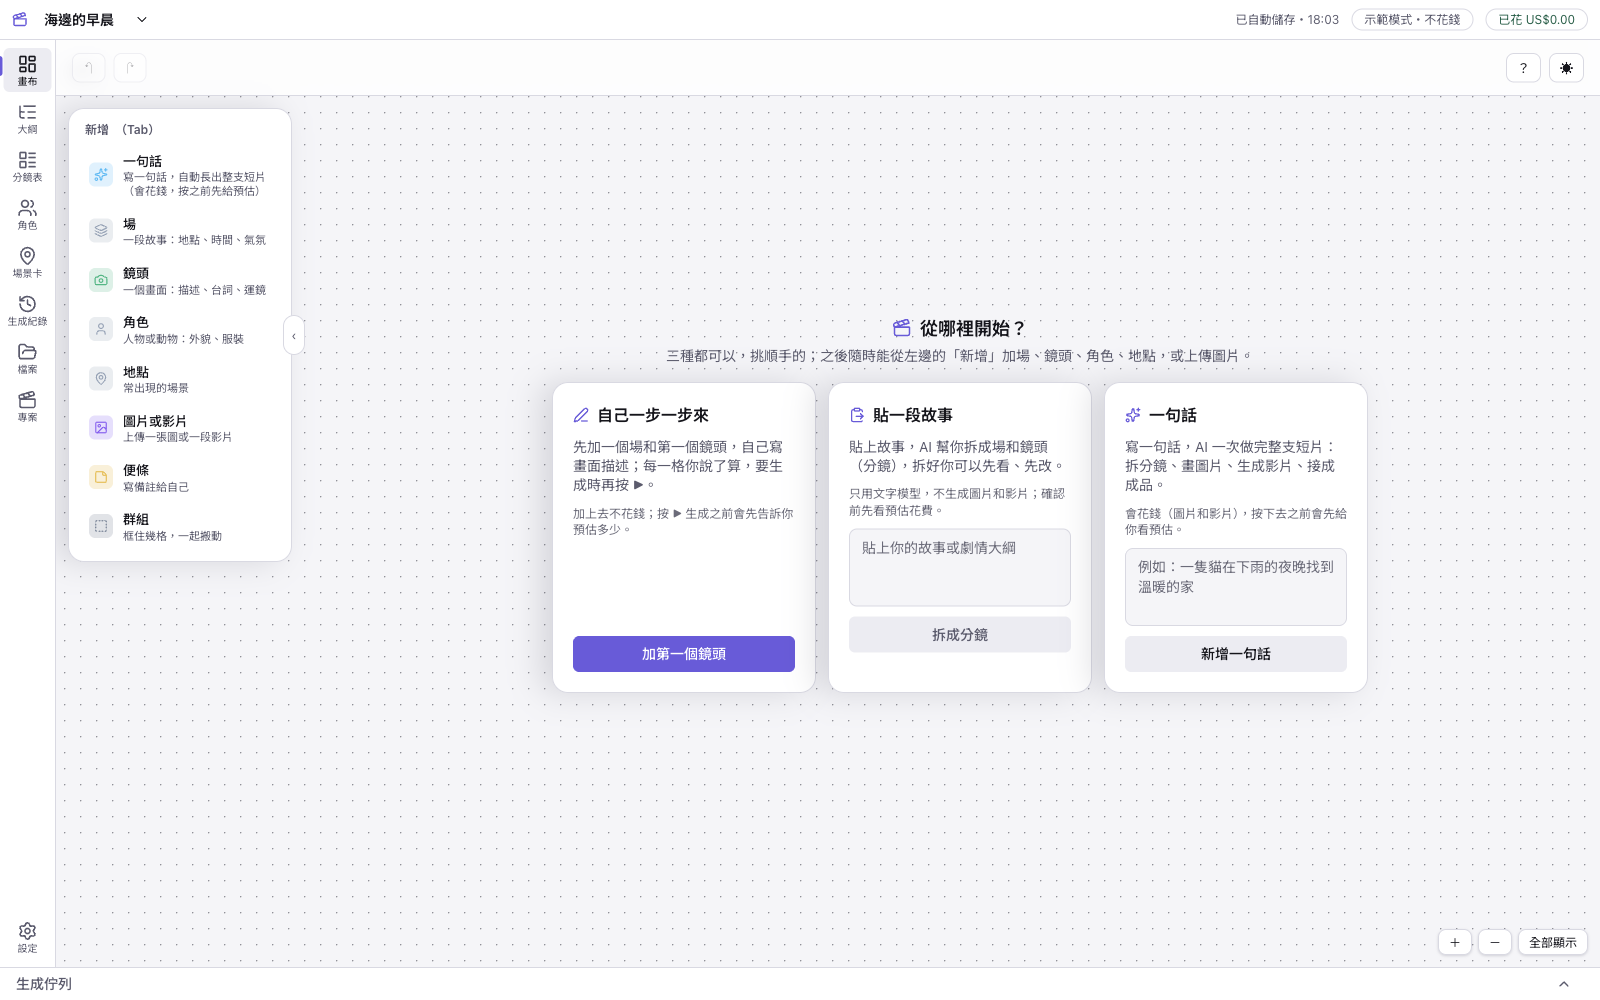
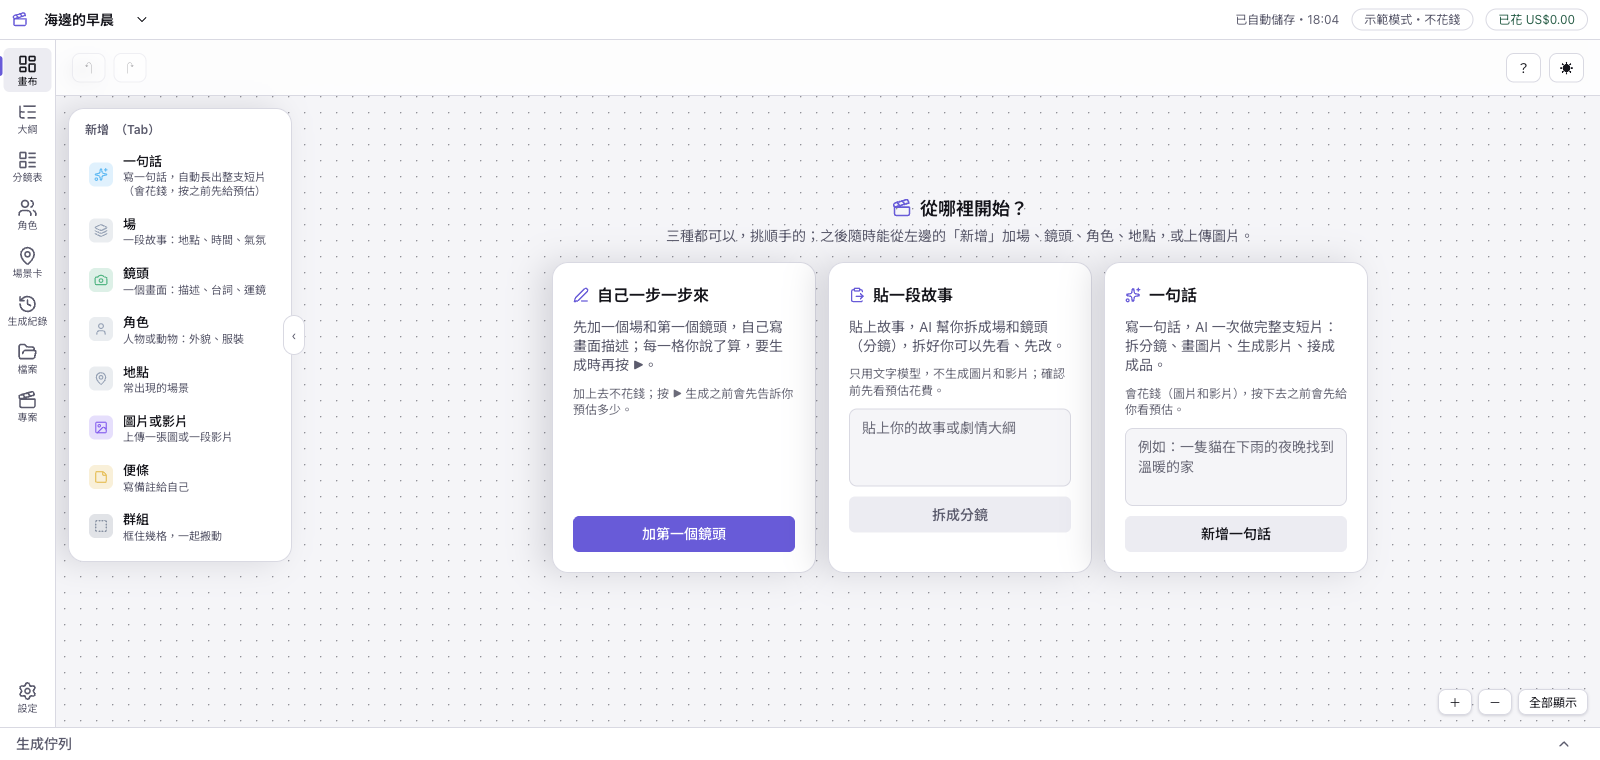
docs: 首頁與空白畫布的圖視窗改矮，圖裡不留一大片空白
Claude-Session: https://claude.ai/code/session_018jegRqFP4tu2jGb6XrpT7E

diff --git a/apps/desktop/e2e/screenshots.e2e.ts b/apps/desktop/e2e/screenshots.e2e.ts
@@ -521,7 +521,8 @@ async function createProject(page: Page, name: string): Promise<void> {
  */
 test.describe('README 用的圖', () => {
   test('10 首頁、11 空白畫布的三種開始方式', async ({ page }, testInfo) => {
-    await page.setViewportSize({ width: 1600, height: 1000 })
+    // 這兩張的內容不高，視窗矮一點，圖裡就不會有一大片空白
+    await page.setViewportSize({ width: 1600, height: 600 })
     await chooseTheme(page, THEMES[1])
     await page.getByRole('button', { name: '畫布', exact: true }).click()
     await createProject(page, '雨夜的貓')
@@ -536,6 +537,7 @@ test.describe('README 用的圖', () => {
     await page.getByTestId('home-current').getByRole('button').first().click()
     await page.getByRole('button', { name: '畫布', exact: true }).click()
     await expect(page.getByTestId('canvas-empty')).toBeVisible()
+    await page.setViewportSize({ width: 1600, height: 760 })
     await viewportSettled(page)
     await shoot(page, testInfo, '11-canvas-start.png')
   })
